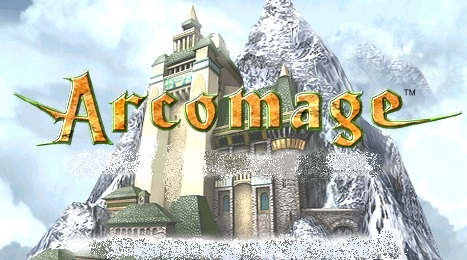
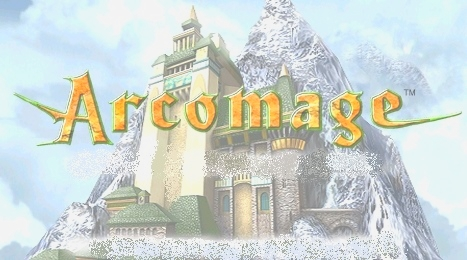
1. fixed background Images/Arcomage_title.jp 2. index+ CreateAccount.html looking better 3. fixed refresh issue when game ends in Game.php 4. PostGame.php total time now in minutes

diff --git a/CreateAccount.html b/CreateAccount.html
@@ -68,21 +68,21 @@
     <h1 style="font-size: 50px; color: #ffd800; text-shadow: 2px 2px 2px #333; text-align: center;">
         Please enter following details to register</h1>
     <hr>
-    <table style="width: 500px; margin-left: 40%; text-align: left; color: #ffd800; text-shadow: 2px 2px 2px #333;
+    <table style="width: 700px; margin-left: 40%; text-align: left; color: #333; text-shadow: 3px 3px 3px #fff;
         font-size: 20px;">
         <tr>
             <td>
-                <form name="login" accept-charset="utf-8">
+                <form name="login" accept-charset="utf-8" style="font-size: 22px;">
                 <div>
                     <label for="username">
-                        Username:
+                        Username:&nbsp&nbsp&nbsp&nbsp&nbsp&nbsp&nbsp&nbsp&nbsp&nbsp&nbsp
                     </label>
                     <input type="text" name="username" id="username" placeholder="" required="true">
                     <b style="color: red" id="missingName"></b>
                 </div>
                 <div>
                     <label for="password">
-                        Password:
+                        Password:&nbsp&nbsp&nbsp&nbsp&nbsp&nbsp&nbsp&nbsp&nbsp&nbsp&nbsp&nbsp
                     </label>
                     <input type="password" name="password" id="password" placeholder="" required="true">
                     <b style="color: red" id="missingPass"></b>
@@ -96,7 +96,7 @@
                 </div>
                 <div>
                     <label for="nickname">
-                        Nickname:
+                        Nickname:&nbsp&nbsp&nbsp&nbsp&nbsp&nbsp&nbsp&nbsp&nbsp&nbsp&nbsp
                     </label>
                     <input type="text" name="nickname" id="nickname" placeholder="" required="true">
                     <b style="color: red" id="missingNick"></b>

diff --git a/index.html b/index.html
@@ -61,7 +61,7 @@
         <h1 style="font-size: 50px; color: #ffd800; text-shadow: 2px 2px 2px #333; text-align: center">
             Welcome to Arcomage Game!</h1>
         <hr>
-        <table style="width: 500px; margin-left: 40%; text-align: left; color: #ffd800; text-shadow: 2px 2px 2px #333;">
+        <table style="width: 500px; margin-left: 40%; text-align: left; color: #333; font-size: 22px; text-shadow: 3px 3px 3px #fff;">
             <tr>
                 <td>
                     <form name="login" accept-charset="utf-8">
@@ -73,7 +73,7 @@
                     </div>
                     <div>
                         <label for="password">
-                            <b>Password: </b>
+                            <b>Password:&nbsp</b>
                         </label>
                         <input type="password" name="password" id="password" placeholder="" required="true">
                         <b style="color: red" id="missingPass"></b>
@@ -86,7 +86,7 @@
             </tr>
             <tr>
                 <td>
-                    <b>Don't have an account? <a style="color: #f00; text-shadow: 1px 1px 1px #333;"
+                    <b>Don't have an account? <a style="color: #b33d3d; text-shadow: 1px 1px 1px #fff;"
                         href="CreateAccount.html">Register</a> now!</b>
                     <div id="result">
                     </div>

diff --git a/PostGame.php b/PostGame.php
@@ -38,7 +38,7 @@ if( verifyCookie() ) {
 
                     document.getElementById("games_played").innerHTML = userGameStat['games_played'];
 
-                    document.getElementById("game_time").innerHTML = userGameStat['game_time'];
+                    document.getElementById("game_time").innerHTML = userGameStat['game_time'] / 60 + " min";
                     document.getElementById("cards_played").innerHTML = userGameStat['cards_played'];
                     
                     document.getElementById("games_won").innerHTML = userGameStat['games_won'];

diff --git a/Game.php b/Game.php
@@ -170,13 +170,11 @@ if( verifyCookie() ) {
                     }
 
                     else if (response == "GameOver") {
-                        RefreshView();
                     }
 
                     else if (response != "") {
                         alert(response);
                     }
-                    RefreshView();
                 }
             }
 
